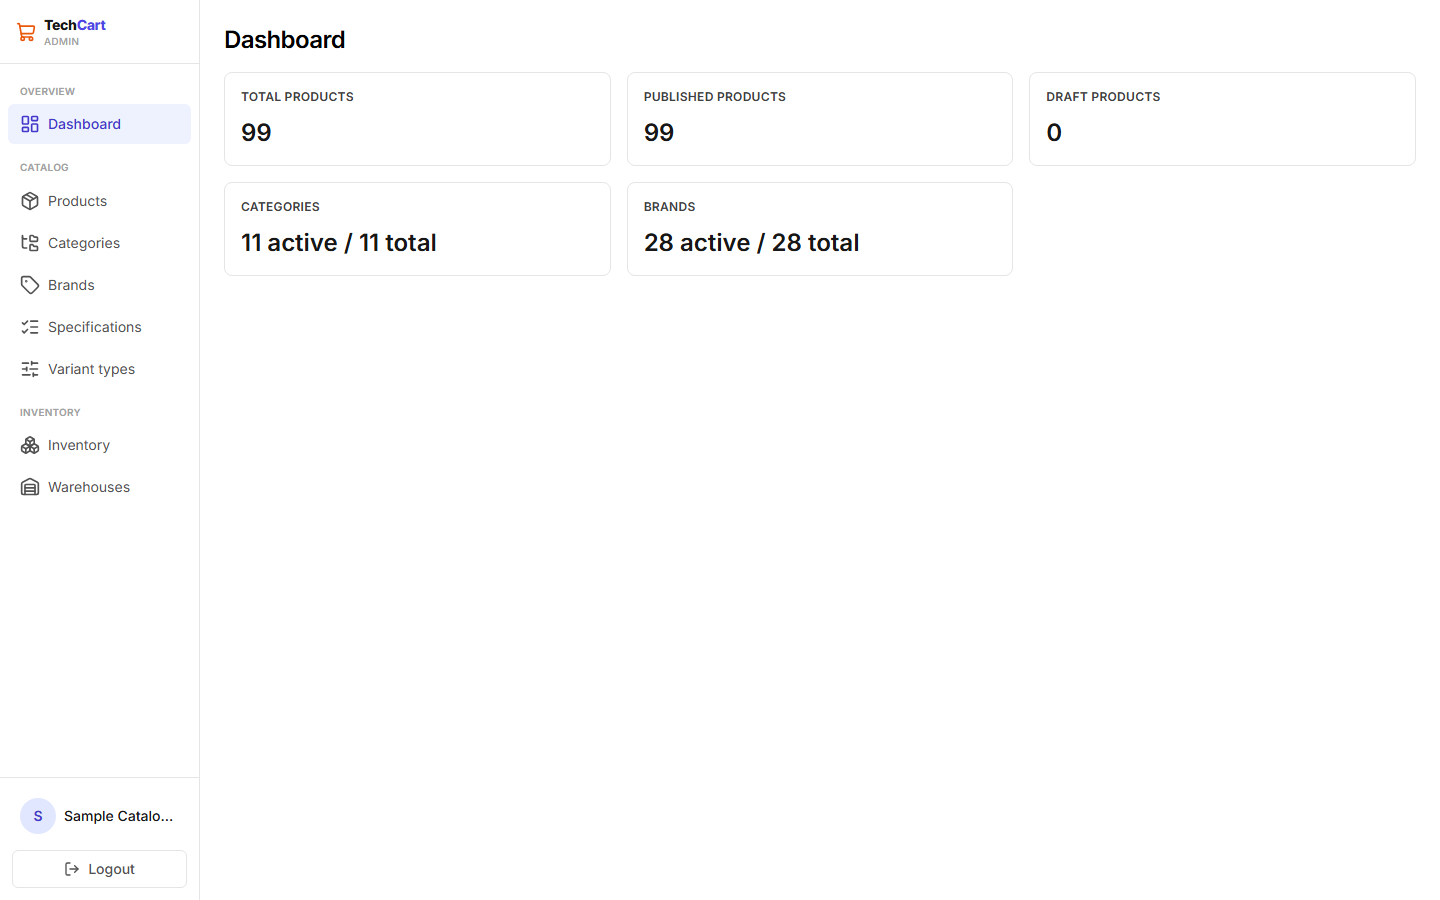
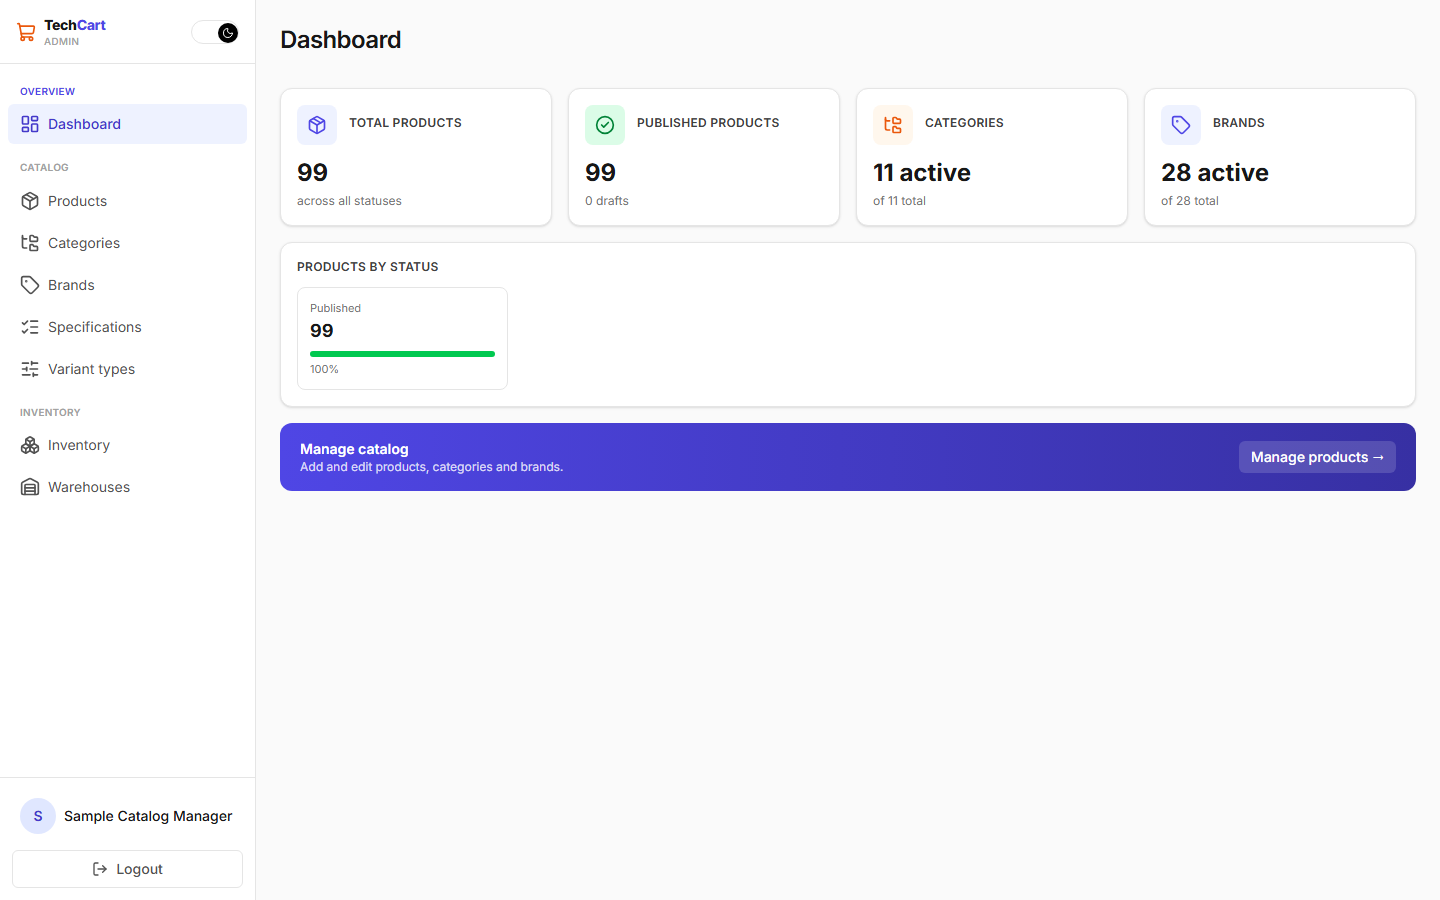
docs: refresh stale admin-app user-manual screenshots (#379)
* docs: refresh admin sidebar screenshots for dark mode (PR #377)

03-console-layout.png and 04-sidebar-mobile-drawer.png were stale after
PR #377 widened the sidebar and moved the theme toggle into its header
row. Re-shot against the live deployment with a throwaway sign-in +
screenshot script (not committed, procedure recorded in
screenshots/README.md); no capture.mjs change needed since neither shot's
selectors changed.

* docs: refresh admin sign-in and dashboard screenshots (PR #373, #375)

01-sign-in-password.png, 02-sign-in-otp.png, 05-dashboard-sales.png, and
05b-dashboard-catalog.png predated the sign-in redesign (PR #375) and
dashboard redesign (PR #373) and were never re-captured after either
shipped. Re-shot against the live deployment with the same throwaway
sign-in + screenshot approach as the sidebar refresh; screenshots/README.md
generalizes that note to cover this and future live-deployment touch-ups.

diff --git a/docs/user-manuals/screenshots/README.md b/docs/user-manuals/screenshots/README.md
@@ -96,6 +96,18 @@ servers.
 
 - **Images** — the local dataset the admin-app screenshots use has grey placeholder
   images. The live storefront (buyer-app screenshots) serves real product images.
+- **Some shots are refreshed against the live deployment as an exception to
+  "admin-app = local"**, when re-shooting against production is faster/lower-risk
+  than standing up a local backend for a small, read-only set of screens — always
+  the same `admin@techcart.com` / `superAdmin123` super-admin (or
+  `catalog-manager@example.com` / `TechCart@Dev123`) and the fixed `123456` OTP,
+  against `https://tech-cart-admin-app.vercel.app`, via a small throwaway script
+  (sign in, navigate, screenshot) that's discarded afterwards — no `capture.mjs`
+  change needed. So far: `03-console-layout.png` / `04-sidebar-mobile-drawer.png`
+  (dark-mode PR #377 widened the sidebar and moved the theme toggle into its header
+  row) and `01-sign-in-password.png` / `02-sign-in-otp.png` / `05-dashboard-sales.png`
+  / `05b-dashboard-catalog.png` (sign-in redesign PR #375, dashboard redesign PR #373
+  — both predated this manual and were never captured after their own redesigns).
 - **Razorpay** — `19-checkout-payment.png` shows the real Razorpay Checkout overlay
   (Test Mode) when test keys are configured; without them the step lands on its
   "Retry payment" state instead. Either is a valid screenshot for the manual.
